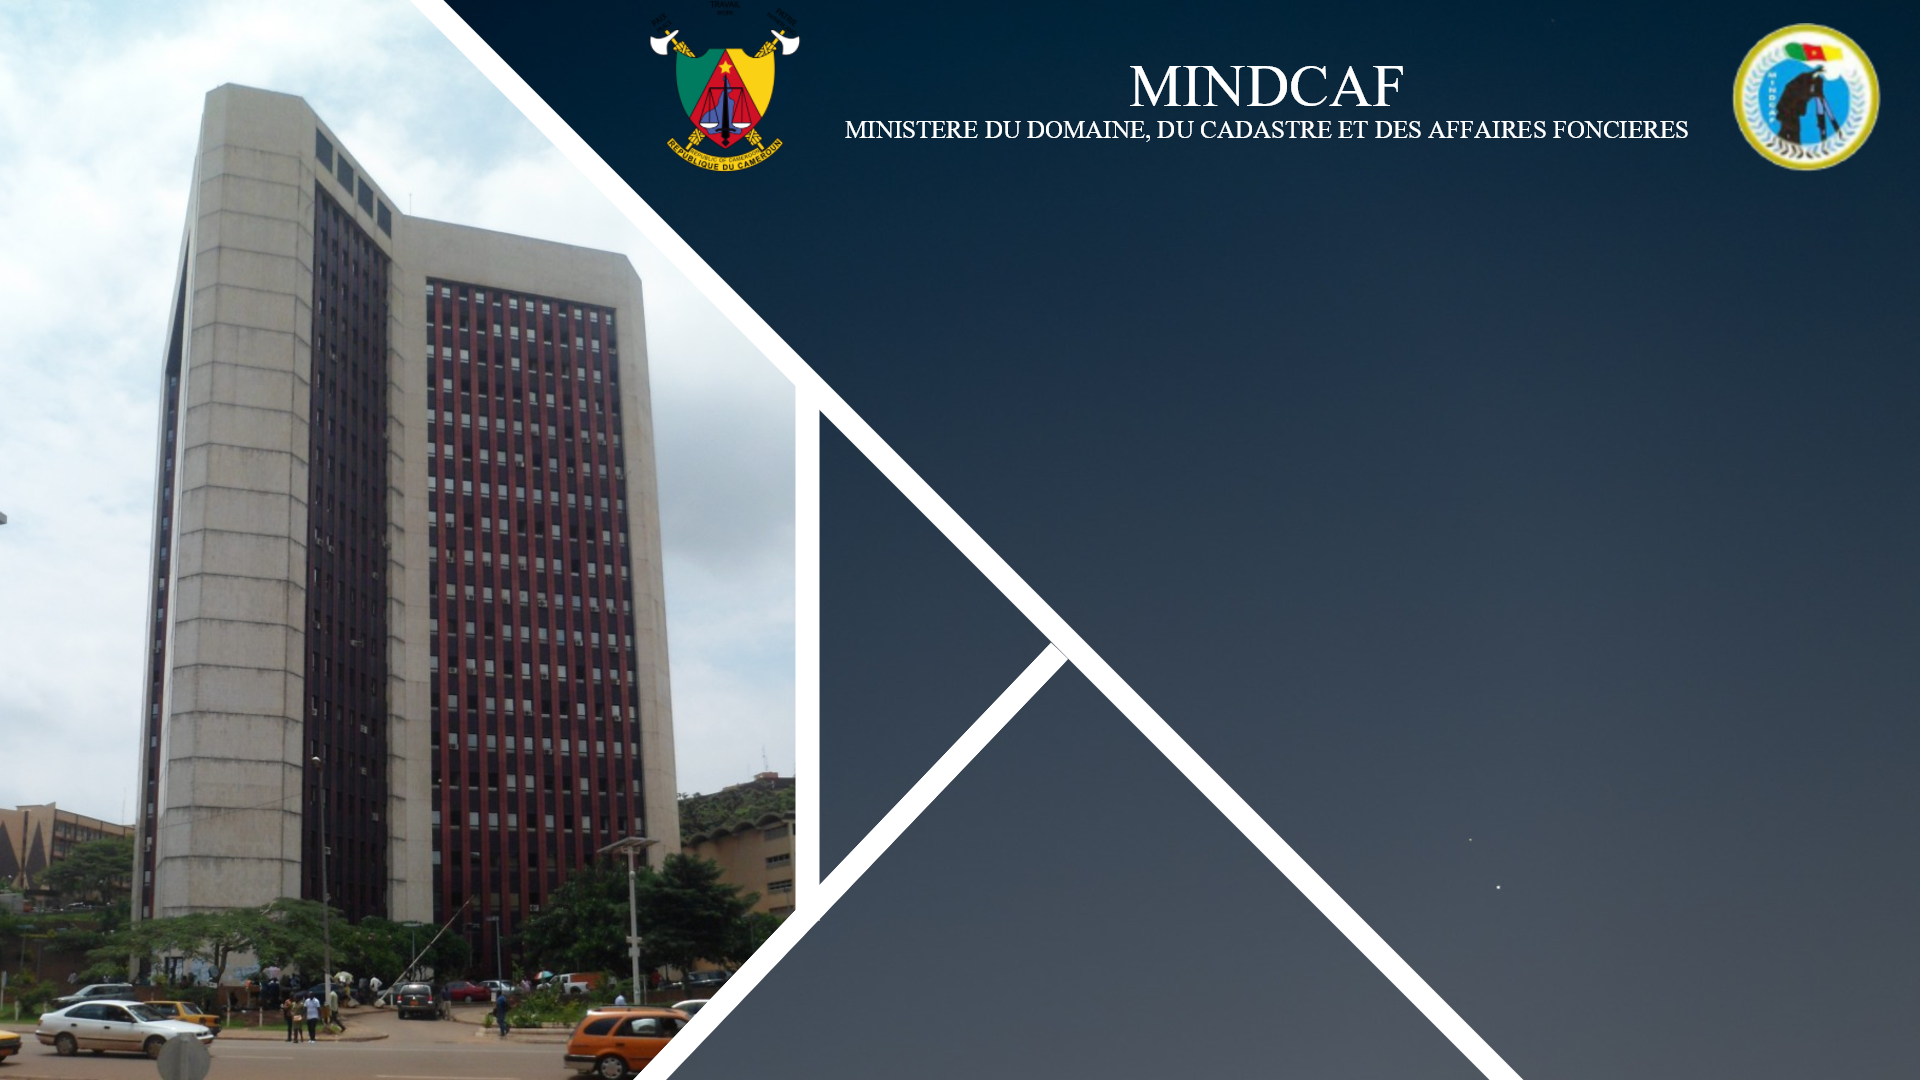
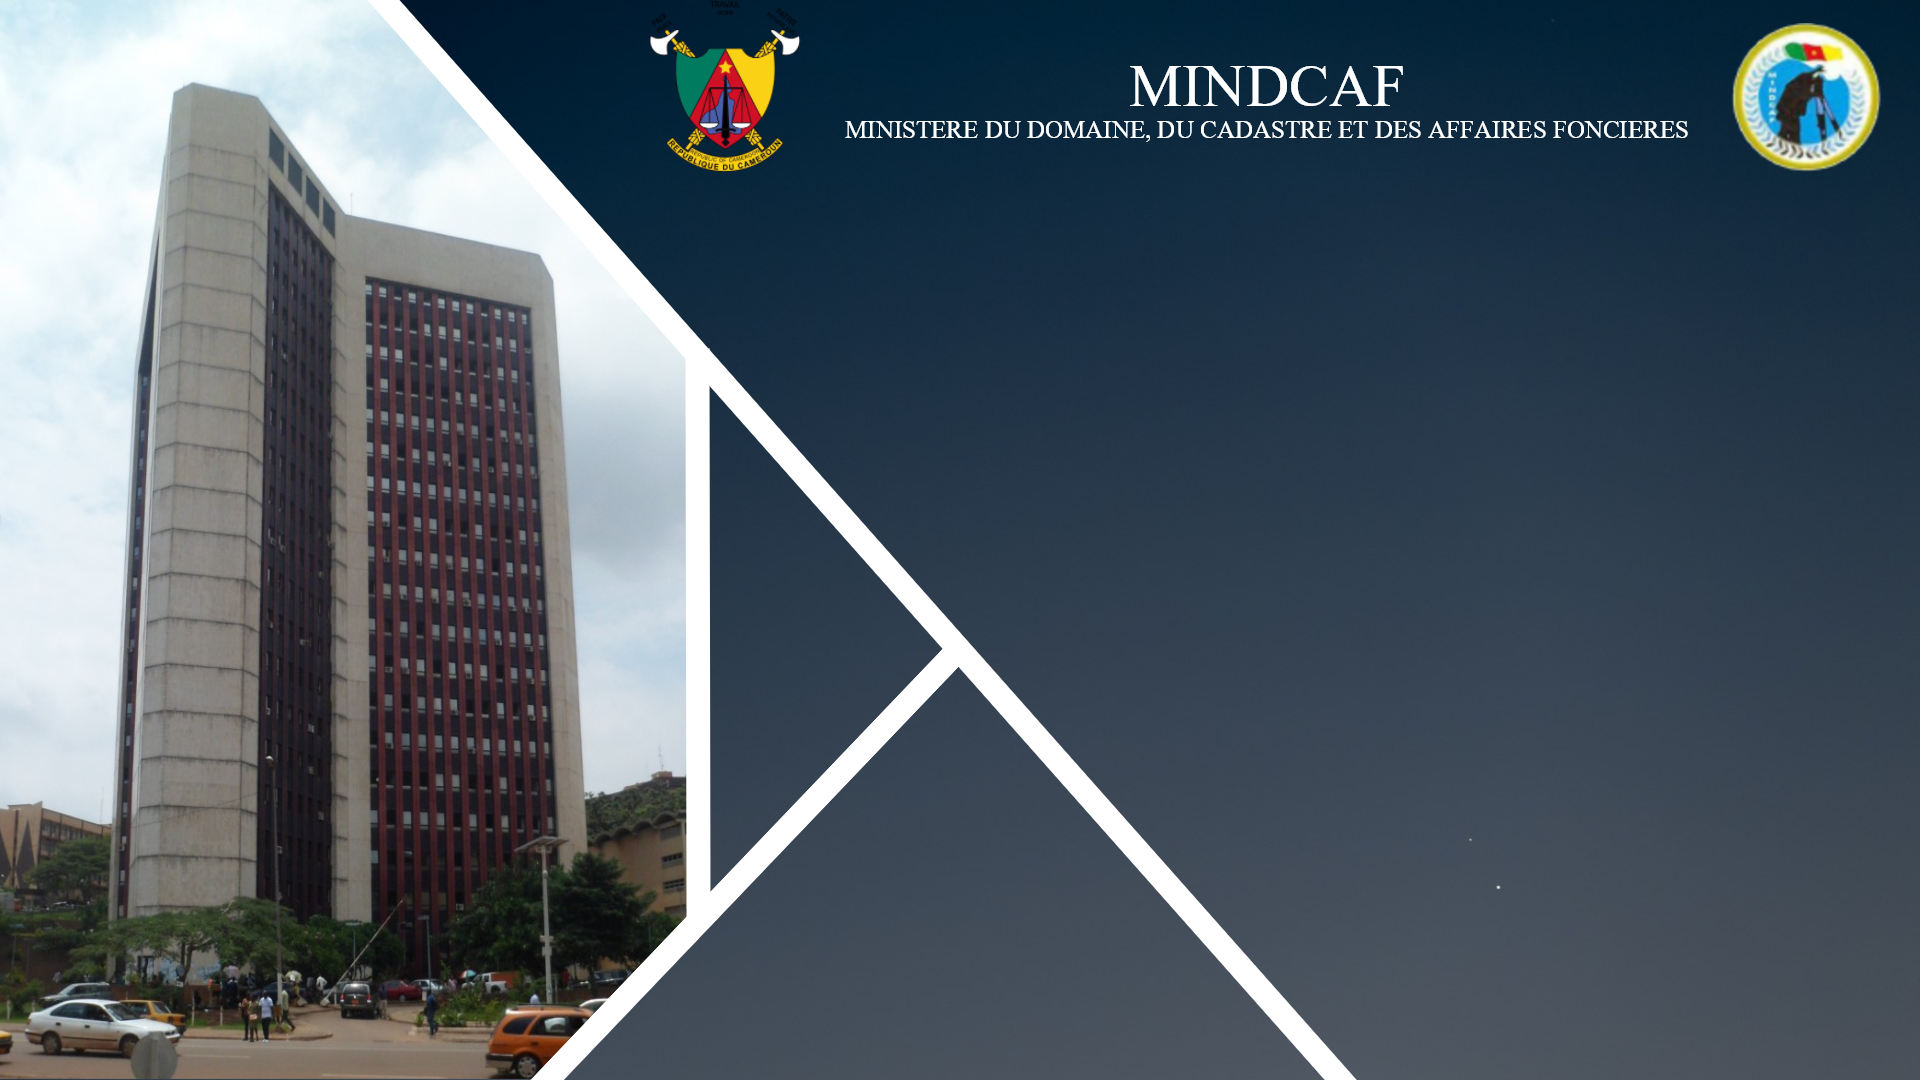
Page d'accueil chanfee

Changed region(s): [[0.0, 0.0, 0.6875, 1.0], [0.6875, 0.825, 0.8125, 1.0], [0.6562, 0.9167, 0.7188, 1.0]]

diff --git a/resources/views/welcome.blade.php b/resources/views/welcome.blade.php
@@ -2,10 +2,10 @@
 <link rel="stylesheet" href="{{asset('css/welcome.css')}}">
 <div class="container-fluid d-block m-0 p-0 h-100" id='content'>
     
-    <div class="container-fluid w-100  m-0" id="contain">
+    <div class="container-fluid w-100 m-0" id="contain">
         <!-- First Row -->
         <div class="container-fluid d-flex justify-content-center row m-0 " id="first-row">
-            <div class="col-md"></div>
+            <div class="col-md col-lg-5 ms-lg-3"></div>
             <!-- Bureau du chef -->
             <div class="col">
                 <a class="container rectangle2" id="chef" href="{{route('statistique')}}">
@@ -40,7 +40,7 @@
 
         <!-- Second Row -->
         <div class="container-fluid d-flex justify-content-center row ms-0 mt-md-4" id="second-row">
-            <div class="col-md"></div>
+            <div class="col-md col-lg-5 ms-lg-3"></div>
             <!-- Bureau du controle -->
             <div class="col my-2 mt-md-0">
                 <a class="container p-0 rectangle2" id="bc" href="{{route('user.bc')}}">
